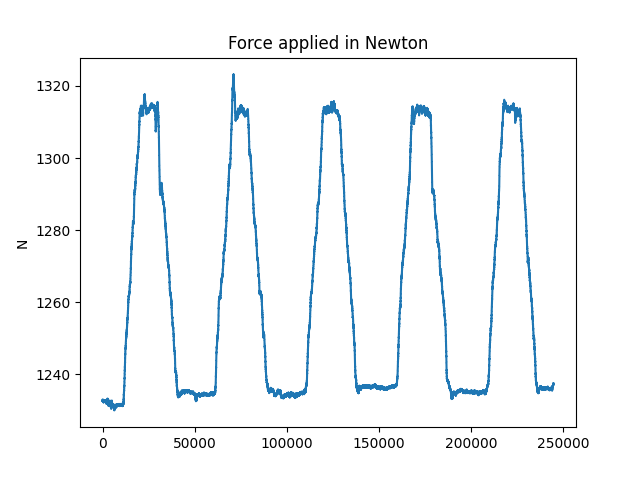
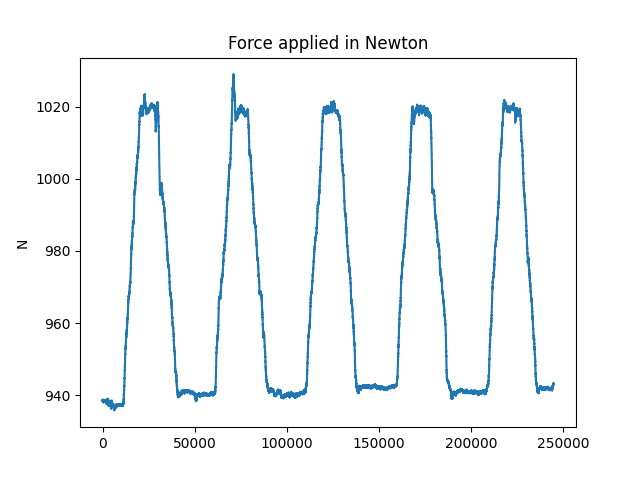
check values of Force

diff --git a/groundtruth.py b/groundtruth.py
@@ -16,7 +16,7 @@ from pathlib import Path
 def Forza(gt,FS,Sensibility,Gain):
     Val = FS/(Sensibility * Gain * 5);
     Val = Val * 9.807;   #To have the force in Newton instead of Kg    ## take out the offset
-    F = pd.DataFrame((gt.iloc[:]-2) * Val)
+    F = pd.DataFrame((gt.iloc[:]-2.3) * Val)
     return F
 
 "----- Formula Torque -----"
